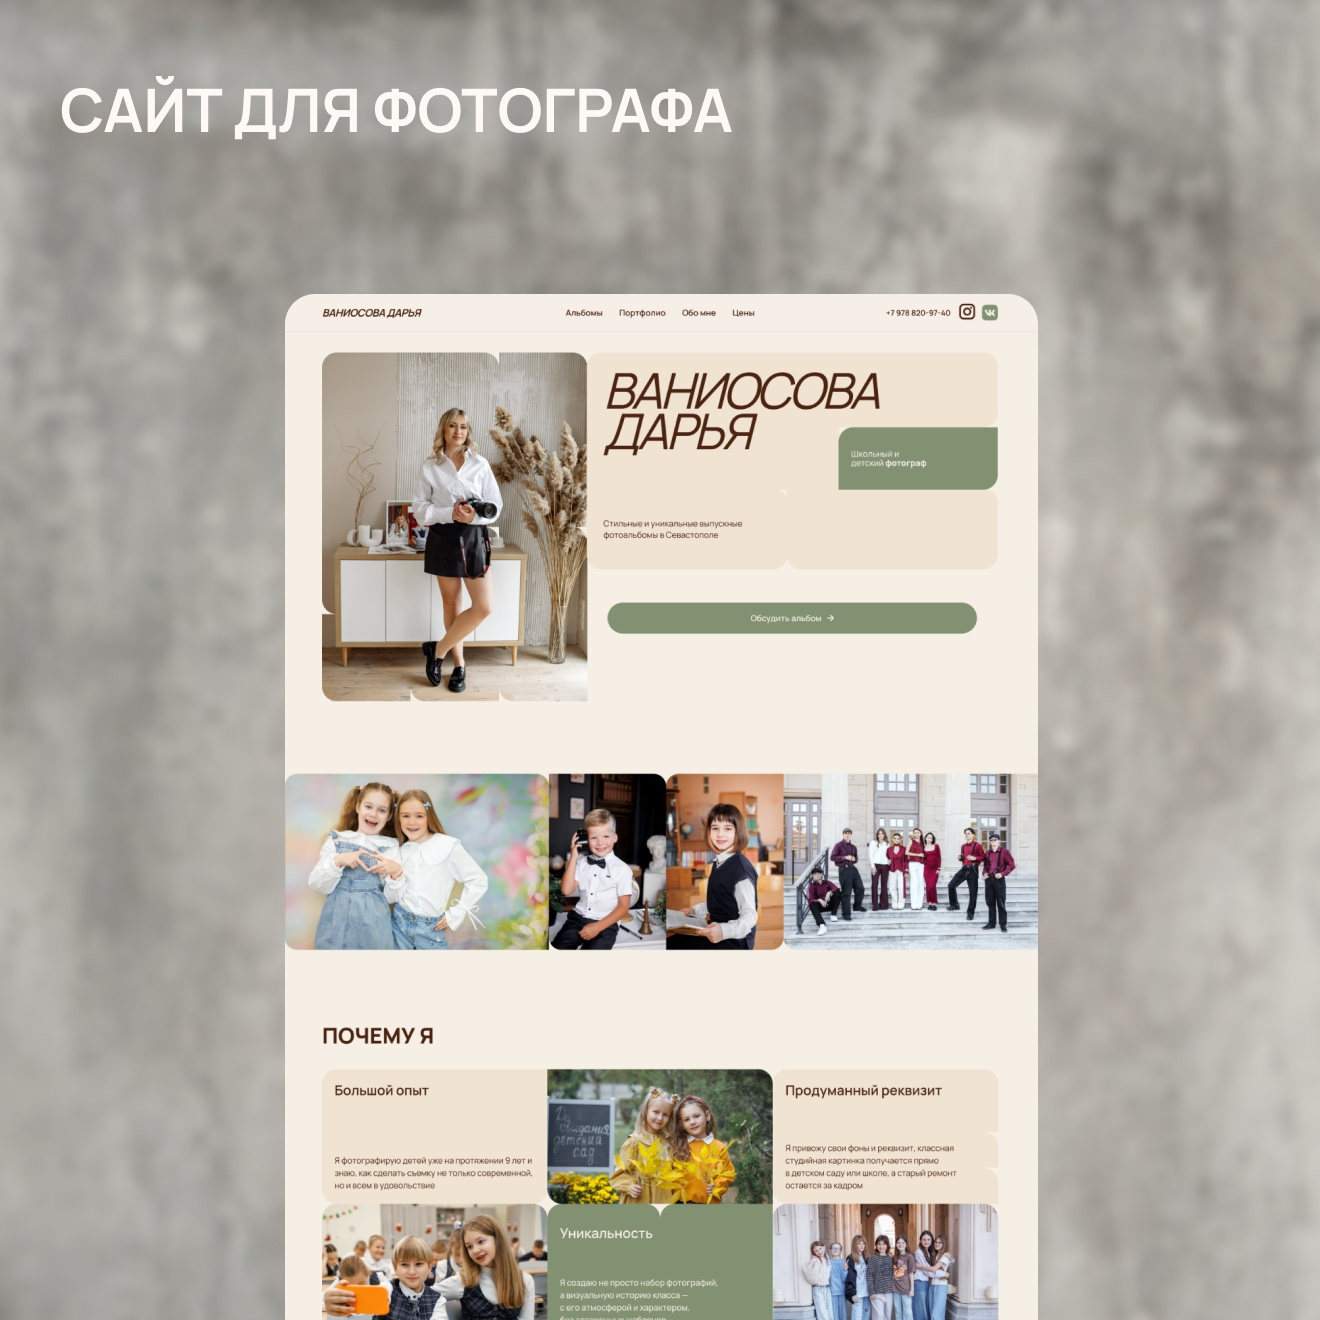
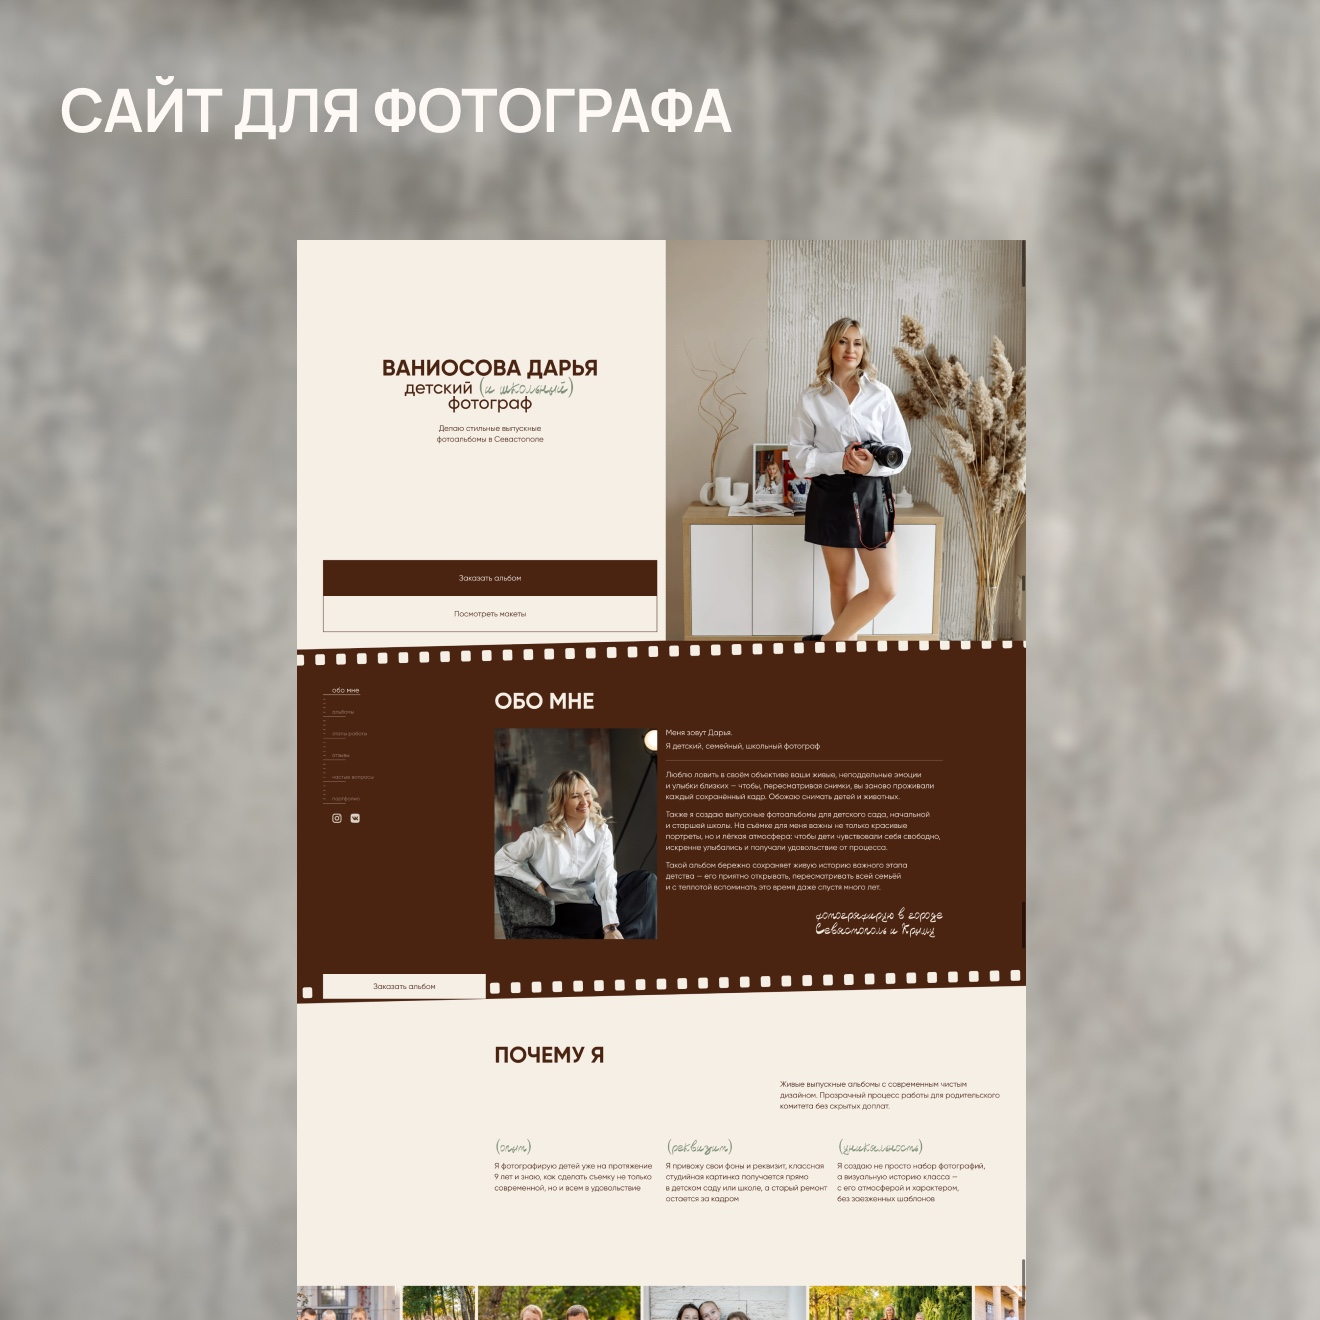
feat(advantages,cases): outline advantage cards, add new cards, reorder cases and update cover

diff --git a/src/sections/Advantages.tsx b/src/sections/Advantages.tsx
@@ -17,6 +17,7 @@ export const Advantages: React.FC = () => {
   }, []);
 
   const isMobile = screenWidth < 744;
+  const totalSteps = Math.max(1, advantages.length - 1);
 
   // Отслеживаем скролл на десктопе/планшетах:
   const { scrollYProgress: desktopProgress } = useScroll({
@@ -86,12 +87,12 @@ export const Advantages: React.FC = () => {
 
       const currentProg = mobileProgressMotion.get();
 
-      // Горизонтальный свайп по карточкам: прямое отзывчивое следование за пальцем
+      // Горизонтальный свайп по карточкам: прямое отзывчивое следование за пальцем (~200px на карточку)
       if (absX > absY && absX > 6) {
         isHorizontalGesture = true;
         didMoveCards = true;
         if (e.cancelable) e.preventDefault();
-        const nextProg = Math.max(0, Math.min(1, touchStartProg + dx / 800));
+        const nextProg = Math.max(0, Math.min(1, touchStartProg + dx / (200 * totalSteps)));
         mobileProgressMotion.set(nextProg);
         return;
       }
@@ -101,13 +102,13 @@ export const Advantages: React.FC = () => {
         if (dy > 0 && currentProg < 0.985) {
           didMoveCards = true;
           if (e.cancelable) e.preventDefault();
-          const nextProg = Math.min(1, touchStartProg + dy / 550);
+          const nextProg = Math.min(1, touchStartProg + dy / (140 * totalSteps));
           mobileProgressMotion.set(nextProg);
           return;
         } else if (dy < 0 && currentProg > 0.015) {
           didMoveCards = true;
           if (e.cancelable) e.preventDefault();
-          const nextProg = Math.max(0, touchStartProg - Math.abs(dy) / 550);
+          const nextProg = Math.max(0, touchStartProg - Math.abs(dy) / (140 * totalSteps));
           mobileProgressMotion.set(nextProg);
           return;
         }
@@ -132,28 +133,28 @@ export const Advantages: React.FC = () => {
       // Динамичный довод к карточке при завершении жеста:
       if (absX > absY && absX > 20) {
         if (dx > 20) {
-          mobileProgressMotion.set(Math.min(1, Math.ceil(currentProg * 4) / 4));
+          mobileProgressMotion.set(Math.min(1, Math.ceil(currentProg * totalSteps) / totalSteps));
         } else if (dx < -20) {
-          mobileProgressMotion.set(Math.max(0, Math.floor(currentProg * 4) / 4));
+          mobileProgressMotion.set(Math.max(0, Math.floor(currentProg * totalSteps) / totalSteps));
         } else {
-          mobileProgressMotion.set(Math.round(currentProg * 4) / 4);
+          mobileProgressMotion.set(Math.round(currentProg * totalSteps) / totalSteps);
         }
         return;
       }
 
       if (absY > absX && absY > 20) {
         if (dy > 20 && currentProg < 0.985) {
-          mobileProgressMotion.set(Math.min(1, Math.ceil(currentProg * 4) / 4));
+          mobileProgressMotion.set(Math.min(1, Math.ceil(currentProg * totalSteps) / totalSteps));
         } else if (dy < -20 && currentProg > 0.015) {
-          mobileProgressMotion.set(Math.max(0, Math.floor(currentProg * 4) / 4));
+          mobileProgressMotion.set(Math.max(0, Math.floor(currentProg * totalSteps) / totalSteps));
         } else {
-          mobileProgressMotion.set(Math.round(currentProg * 4) / 4);
+          mobileProgressMotion.set(Math.round(currentProg * totalSteps) / totalSteps);
         }
         return;
       }
 
       if (currentProg > 0.03 && currentProg < 0.97) {
-        mobileProgressMotion.set(Math.round(currentProg * 4) / 4);
+        mobileProgressMotion.set(Math.round(currentProg * totalSteps) / totalSteps);
       }
     };
 
@@ -173,8 +174,8 @@ export const Advantages: React.FC = () => {
       if (delta > 0) {
         if (currentProg < 0.985) {
           if (e.cancelable) e.preventDefault();
-          // Отзывчивый лёгкий ход: ~180px скролла на одну карточку (720px на 4 перехода)
-          const nextProg = Math.min(1, currentProg + Math.abs(delta) / 720);
+          // Отзывчивый лёгкий ход: ~180px скролла на одну карточку
+          const nextProg = Math.min(1, currentProg + Math.abs(delta) / (180 * totalSteps));
           mobileProgressMotion.set(nextProg);
 
           // Мягкий довод к карточке при остановке прокрутки:
@@ -182,12 +183,10 @@ export const Advantages: React.FC = () => {
           wheelSnapTimer = setTimeout(() => {
             const p = mobileProgressMotion.get();
             if (p > 0.03 && p < 0.97) {
-              mobileProgressMotion.set(Math.round(p * 4) / 4);
+              mobileProgressMotion.set(Math.round(p * totalSteps) / totalSteps);
             }
           }, 90);
           return;
-        } else {
-          // Уже на 5-й карточке: скролл свободно продолжается вниз к Услугам
         }
       }
 
@@ -195,19 +194,17 @@ export const Advantages: React.FC = () => {
       if (delta < 0) {
         if (currentProg > 0.015) {
           if (e.cancelable) e.preventDefault();
-          const nextProg = Math.max(0, currentProg - Math.abs(delta) / 720);
+          const nextProg = Math.max(0, currentProg - Math.abs(delta) / (180 * totalSteps));
           mobileProgressMotion.set(nextProg);
 
           if (wheelSnapTimer) clearTimeout(wheelSnapTimer);
           wheelSnapTimer = setTimeout(() => {
             const p = mobileProgressMotion.get();
             if (p > 0.03 && p < 0.97) {
-              mobileProgressMotion.set(Math.round(p * 4) / 4);
+              mobileProgressMotion.set(Math.round(p * totalSteps) / totalSteps);
             }
           }, 90);
           return;
-        } else {
-          // Уже на 1-й карточке: скролл свободно продолжается вверх к Кейсам
         }
       }
     };
@@ -226,36 +223,12 @@ export const Advantages: React.FC = () => {
       window.removeEventListener('touchend', handleTouchEnd);
       window.removeEventListener('touchcancel', handleTouchEnd);
     };
-  }, [isMobile, mobileProgressMotion]);
-
-  // Появление карточек на десктопе:
-  const cardOpacity0 = useTransform(smoothProgress, [0.00, 0.12], [0, 1]);
-  const cardY0 = useTransform(smoothProgress, [0.00, 0.12], [36, 0]);
-
-  const cardOpacity1 = useTransform(smoothProgress, [0.09, 0.21], [0, 1]);
-  const cardY1 = useTransform(smoothProgress, [0.09, 0.21], [36, 0]);
-
-  const cardOpacity2 = useTransform(smoothProgress, [0.18, 0.30], [0, 1]);
-  const cardY2 = useTransform(smoothProgress, [0.18, 0.30], [36, 0]);
-
-  const cardOpacity3 = useTransform(smoothProgress, [0.27, 0.39], [0, 1]);
-  const cardY3 = useTransform(smoothProgress, [0.27, 0.39], [36, 0]);
-
-  const cardOpacity4 = useTransform(smoothProgress, [0.42, 0.62], [0, 1]);
-  const cardY4 = useTransform(smoothProgress, [0.42, 0.62], [36, 0]);
-
-  const cardAnimations = [
-    { opacity: cardOpacity0, y: cardY0 },
-    { opacity: cardOpacity1, y: cardY1 },
-    { opacity: cardOpacity2, y: cardY2 },
-    { opacity: cardOpacity3, y: cardY3 },
-    { opacity: cardOpacity4, y: cardY4 },
-  ];
+  }, [isMobile, mobileProgressMotion, totalSteps]);
 
   // Горизонтальный сдвиг ленты на десктопе:
   const desktopTrackProgress = useTransform(
     smoothProgress,
-    [0.36, 0.92],
+    [0.25, 0.92],
     [0, 1]
   );
 
@@ -263,11 +236,14 @@ export const Advantages: React.FC = () => {
     const clamped = Math.min(1, Math.max(0, t));
     const ease = -(Math.cos(Math.PI * clamped) - 1) / 2;
     if (screenWidth >= 1400) {
-      return `calc(${-25 * ease}% - ${8 * ease}px)`;
+      const extraCols = Math.max(0, advantages.length - 4);
+      return `calc(${-25 * extraCols * ease}% - ${8 * extraCols * ease}px)`;
     } else if (screenWidth >= 1024) {
-      return `calc(${-25 * ease}% - ${2.5 * ease}px)`;
+      const extraCols = Math.max(0, advantages.length - 4);
+      return `calc(${-25 * extraCols * ease}% - ${2.5 * extraCols * ease}px)`;
     } else if (screenWidth >= 744) {
-      return `calc(${-66.667 * ease}% - ${10 * ease}px)`;
+      const extraCols = Math.max(0, advantages.length - 3);
+      return `calc(${-(100 / 3) * extraCols * ease}% - ${5 * extraCols * ease}px)`;
     } else {
       return `0px`;
     }
@@ -276,18 +252,22 @@ export const Advantages: React.FC = () => {
   // Плавный физический трансформ для ленты карточек на мобилке (0..1):
   const mobileTrackTransform = useTransform(smoothMobileProgress, (t) => {
     const clamped = Math.max(0, Math.min(1, t));
-    const val = clamped * 4; // 0..4
+    const val = clamped * totalSteps;
     const i = Math.floor(val);
     const frac = val - i;
-    if (i >= 4) return 'calc(-290% - 48px)';
 
-    const basePercents = [0, -78, -156, -234, -290];
-    const basePixels = [0, -12, -24, -36, -48];
+    const getPercent = (idx: number) =>
+      idx >= totalSteps ? -(advantages.length * 78 - 100) : -78 * idx;
+    const getPx = (idx: number) => -12 * Math.min(idx, totalSteps);
 
-    const p1 = basePercents[i];
-    const p2 = basePercents[i + 1];
-    const px1 = basePixels[i];
-    const px2 = basePixels[i + 1];
+    if (i >= totalSteps) {
+      return `calc(${getPercent(totalSteps)}% + ${getPx(totalSteps)}px)`;
+    }
+
+    const p1 = getPercent(i);
+    const p2 = getPercent(i + 1);
+    const px1 = getPx(i);
+    const px2 = getPx(i + 1);
 
     const currentP = p1 + (p2 - p1) * frac;
     const currentPx = px1 + (px2 - px1) * frac;
@@ -297,20 +277,11 @@ export const Advantages: React.FC = () => {
 
   const trackTransform = isMobile ? mobileTrackTransform : desktopTrackTransform;
 
-  // Акцентное увеличение иконки при въезде карточки в фокус (десктоп):
-  const imgScale0 = useTransform(smoothProgress, [0.00, 0.08, 0.14], [0.92, 1.08, 1]);
-  const imgScale1 = useTransform(smoothProgress, [0.09, 0.17, 0.23], [0.92, 1.08, 1]);
-  const imgScale2 = useTransform(smoothProgress, [0.18, 0.26, 0.32], [0.92, 1.08, 1]);
-  const imgScale3 = useTransform(smoothProgress, [0.27, 0.35, 0.41], [0.92, 1.08, 1]);
-  const imgScale4 = useTransform(smoothProgress, [0.42, 0.52, 0.62], [0.92, 1.08, 1]);
-
-  const imgScales = [imgScale0, imgScale1, imgScale2, imgScale3, imgScale4];
-
   return (
     <div
       ref={scrollTriggerRef}
       id="advantages"
-      className="relative bg-[#FEF9F4] max-[743px]:h-auto min-[744px]:h-[170vh] min-[1400px]:h-[185vh]"
+      className="relative bg-[#FEF9F4] max-[743px]:h-auto min-[744px]:h-[210vh] min-[1400px]:h-[225vh]"
     >
       {/* Пин-контейнер: без растяжения на 100vh, чтобы не создавать пустых отступов сверху и снизу */}
       <div className="relative min-[744px]:sticky min-[744px]:top-0 w-full flex flex-col justify-start z-10 pt-[50px] min-[744px]:pt-[85px] lg:pt-[100px] min-[1400px]:pt-[115px] pb-[10px] min-[744px]:pb-[20px] overflow-x-clip">
@@ -337,47 +308,46 @@ export const Advantages: React.FC = () => {
               style={{ x: trackTransform }}
               className="flex flex-nowrap items-stretch gap-[12px] min-[744px]:max-[1023px]:gap-[15px] lg:max-[1399px]:gap-[10px] min-[1400px]:gap-[32px] will-change-transform select-none"
             >
-              {advantages.map((adv, index) => {
-                const cardAnim = cardAnimations[index] || cardAnimations[cardAnimations.length - 1];
-                const imgScale = imgScales[index] || imgScales[imgScales.length - 1];
-                return (
-                  <motion.div
-                    key={index}
-                    onClick={() => {
-                      if (isMobile) {
-                        mobileProgressMotion.set(index / 4);
-                      }
-                    }}
-                    style={{
-                      opacity: isMobile ? 1 : cardAnim.opacity,
-                      y: isMobile ? 0 : cardAnim.y,
-                    }}
-                    className="relative shrink-0 w-[78%] cursor-pointer select-none max-[743px]:aspect-auto max-[743px]:h-auto min-[744px]:max-[1023px]:w-[calc((100%-30px)/3)] lg:max-[1399px]:w-[calc((100%-30px)/4)] min-[1400px]:w-[calc((100%-96px)/4)] min-[1400px]:aspect-square flex flex-col justify-between items-start text-left will-change-[transform,opacity] transform-gpu bg-[#FA7250] p-[18px] max-[743px]:pb-[36px] min-[744px]:p-6 min-[1200px]:p-7 min-[1400px]:p-8 rounded-none"
-                  >
-                    {/* Иконка преимущества */}
-                    <div className="relative z-10 h-[105px] min-[390px]:h-[115px] min-[744px]:h-[125px] lg:h-[140px] min-[1400px]:h-[150px] min-[1600px]:h-[185px] mb-[10px] min-[744px]:mb-[16px] min-[1400px]:mb-[20px] w-full flex items-center justify-center shrink-0">
-                      <motion.img
-                        style={{ scale: isMobile ? 1 : imgScale }}
-                        src={adv.icon}
-                        alt={adv.title}
-                        loading="lazy"
-                        decoding="async"
-                        className="max-h-full max-w-full w-auto h-auto object-contain select-none pointer-events-none will-change-transform transform-gpu"
-                      />
-                    </div>
+              {advantages.map((adv, index) => (
+                <motion.div
+                  key={adv.title}
+                  onClick={() => {
+                    if (isMobile) {
+                      mobileProgressMotion.set(index / totalSteps);
+                    }
+                  }}
+                  initial={{ opacity: 0, y: 24 }}
+                  whileInView={{ opacity: 1, y: 0 }}
+                  viewport={{ once: true, amount: 0.12 }}
+                  transition={{
+                    duration: 0.65,
+                    delay: Math.min(index, 3) * 0.07,
+                    ease: [0.16, 1, 0.3, 1],
+                  }}
+                  className="relative shrink-0 w-[78%] cursor-pointer select-none max-[743px]:aspect-auto max-[743px]:h-auto min-[744px]:max-[1023px]:w-[calc((100%-30px)/3)] lg:max-[1399px]:w-[calc((100%-30px)/4)] min-[1400px]:w-[calc((100%-96px)/4)] min-[1400px]:aspect-square flex flex-col justify-start items-start text-left will-change-[transform,opacity] transform-gpu bg-[#FEF9F4] border border-[#FA7250] p-[18px] max-[743px]:pb-[32px] min-[744px]:p-6 min-[1200px]:p-7 min-[1400px]:p-8 rounded-none"
+                >
+                  {/* Иконка преимущества фиксированной высоты, чтобы заголовки всех карточек начинались строго на одной общей верхней линии */}
+                  <div className="relative z-10 h-[105px] min-[390px]:h-[115px] min-[744px]:h-[125px] lg:h-[135px] min-[1400px]:h-[145px] min-[1600px]:h-[175px] mb-[14px] min-[744px]:mb-[20px] min-[1400px]:mb-[24px] w-full flex items-center justify-center shrink-0">
+                    <img
+                      src={adv.icon}
+                      alt={adv.title}
+                      loading="lazy"
+                      decoding="async"
+                      className="max-h-full max-w-full w-auto h-auto object-contain select-none pointer-events-none"
+                    />
+                  </div>
 
-                    {/* Текстовая часть: нижнее расстояние увеличено в 2 раза (pb-[36px] против pt-[18px]) */}
-                    <div className="w-full min-w-0 flex flex-col items-start text-left gap-[6px] min-[744px]:gap-[15px]">
-                      <CardTitle className="text-left !text-[#FEF9F4]">
-                        {adv.title}
-                      </CardTitle>
-                      <BodyText className="text-left !text-[#FEF9F4] break-words">
-                        {adv.description}
-                      </BodyText>
-                    </div>
-                  </motion.div>
-                );
-              })}
+                  {/* Текстовая часть: все заголовки карточек выровнены по одной верхней направляющей */}
+                  <div className="w-full min-w-0 flex flex-col items-start text-left gap-[8px] min-[744px]:gap-[12px] min-[1400px]:gap-[15px]">
+                    <CardTitle className="text-left">
+                      {adv.title}
+                    </CardTitle>
+                    <BodyText className="text-left break-words">
+                      {adv.description}
+                    </BodyText>
+                  </div>
+                </motion.div>
+              ))}
             </motion.div>
           </motion.div>
         </section>

diff --git a/src/data/content.ts b/src/data/content.ts
@@ -44,6 +44,21 @@ export const advantages = [
     icon: '/svg/advantages/pic-3.png',
   },
   {
+    title: 'Прозрачный процесс',
+    description: 'Я работаю по договору, выполняю свои обязательства и соблюдаю сроки, не пропадаю и не бросаю проекты, держу заказчика в курсе всех процессов.',
+    icon: '/svg/advantages/pic-4.png',
+  },
+  {
+    title: 'Фокус на задаче и смыслах',
+    description: 'Делаю не просто красивую картинку, а для начала провожу глубокую аналитику, чтобы сайт стал инструментом и решал задачу вашего бизнеса.',
+    icon: '/svg/advantages/pic-5.svg',
+  },
+  {
+    title: 'Адаптивы',
+    description: '80% пользователей смотрят сайт с телефона, поэтому я уделяю должное внимание адаптивной верстке макетов, чтобы ваш сайт был красивым и удобным не только с компьютера, но и с телефона.',
+    icon: '/svg/advantages/pic-6.svg',
+  },
+  {
     title: 'Код',
     description: 'Сделаю стандартный сайт на Тильде/Вебфлоу уникальным за счет индивидуальных модификаций.',
     icon: '/svg/advantages/pic.png',
@@ -52,11 +67,6 @@ export const advantages = [
     title: 'Нейросети',
     description: 'Заменяю банальные стоки уникальной графикой и кинематографичными AI-видео. Сделаю вам полностью уникальный проект.',
     icon: '/svg/advantages/pic-1.png',
-  },
-  {
-    title: 'Прозрачный процесс',
-    description: 'Я работаю по договору, выполняю свои обязательства и соблюдаю сроки, не пропадаю и не бросаю проекты, держу заказчика в курсе всех процессов.',
-    icon: '/svg/advantages/pic-4.png',
   },
 ];
 
@@ -97,10 +107,10 @@ export interface CaseItem {
 
 export const cases: CaseItem[] = [
   {
-    id: 1,
-    title: 'МАХОВИК ПРОСТРАНСТВА',
-    image: '/cases/case-1.jpg?v=3',
-    link: 'https://outerspacer.tilda.ws/',
+    id: 4,
+    title: 'САЙТ ДЛЯ ФОТОГРАФА',
+    image: '/cases/case-4.jpg?v=2',
+    link: 'https://vaniosovaph.ru/',
   },
   {
     id: 2,
@@ -116,10 +126,10 @@ export const cases: CaseItem[] = [
     link: 'https://academy.hybrid.ai/',
   },
   {
-    id: 4,
-    title: 'САЙТ ДЛЯ ФОТОГРАФА',
-    image: '/cases/case-4.jpg',
-    link: 'https://vaniosovaph.ru/',
+    id: 1,
+    title: 'МАХОВИК ПРОСТРАНСТВА',
+    image: '/cases/case-1.jpg?v=3',
+    link: 'https://outerspacer.tilda.ws/',
   },
 ];
 
